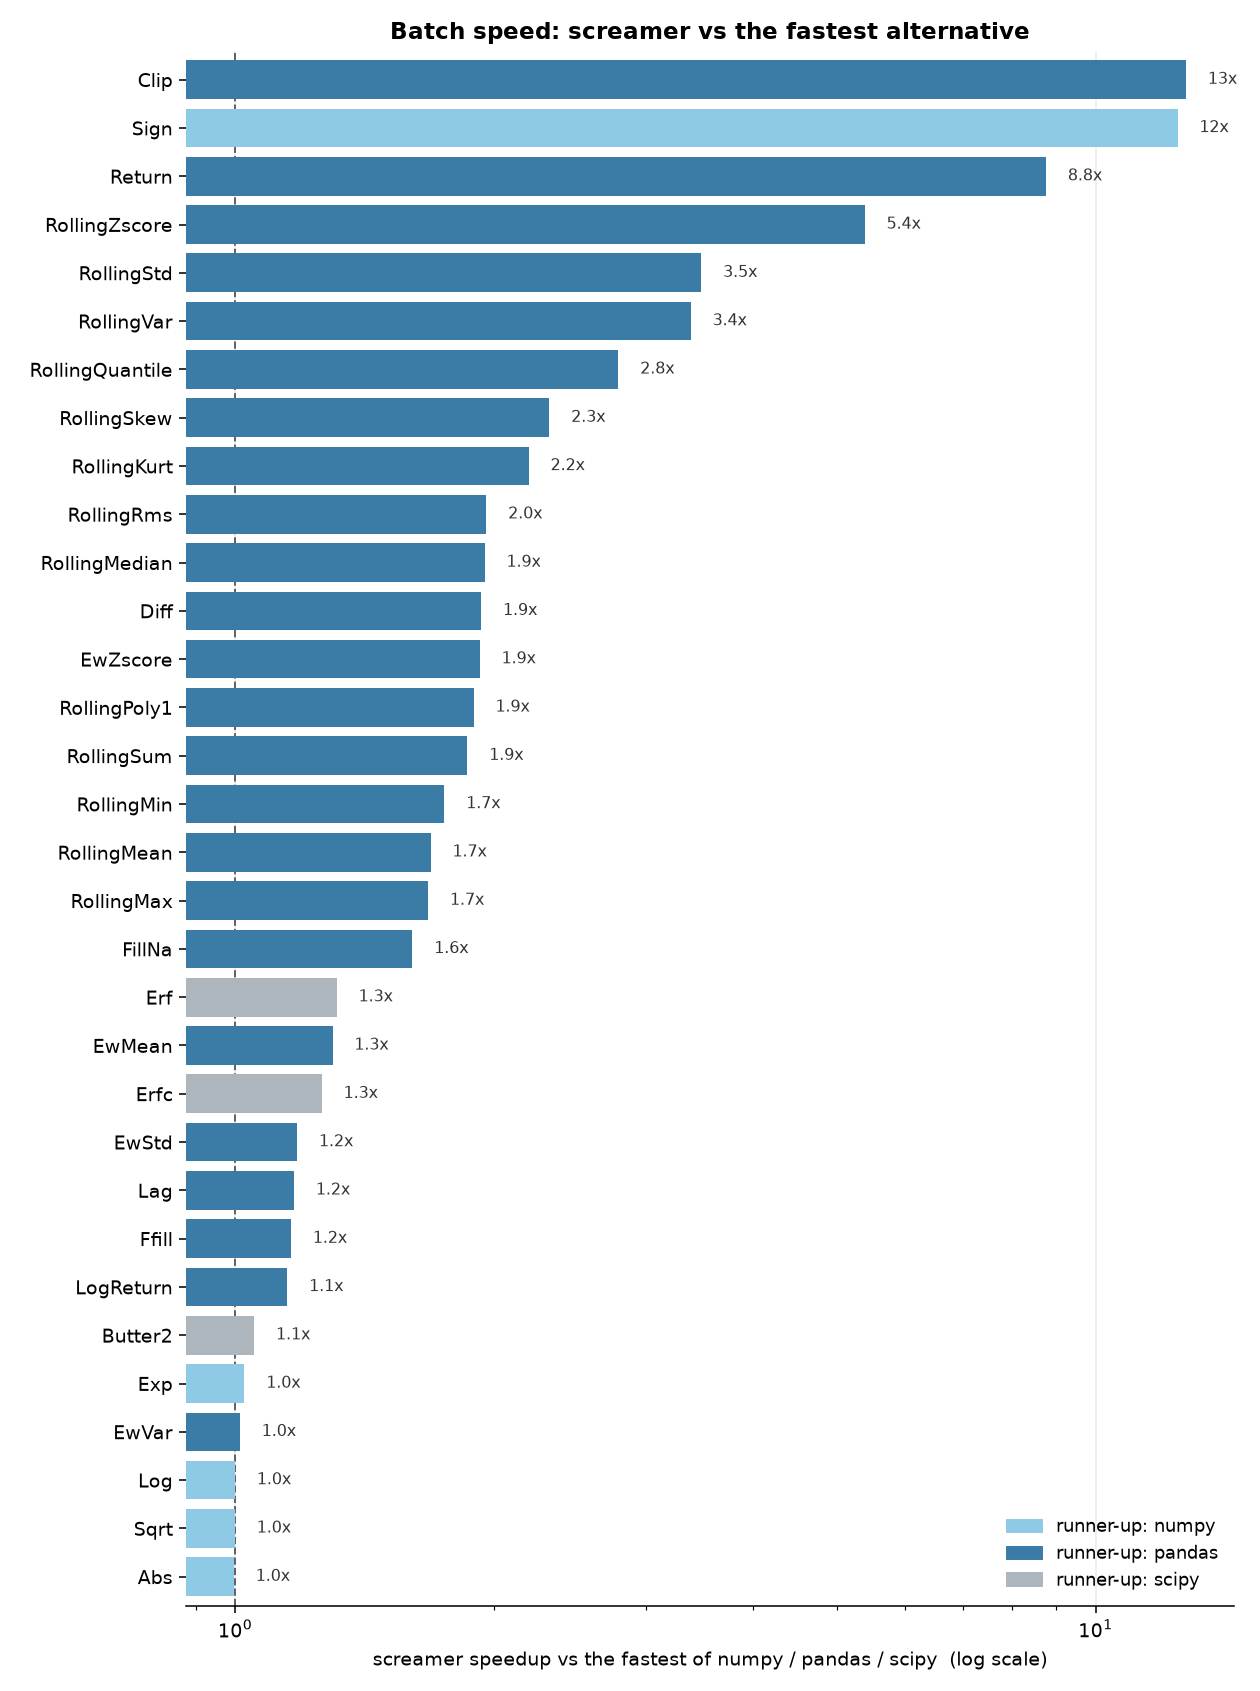
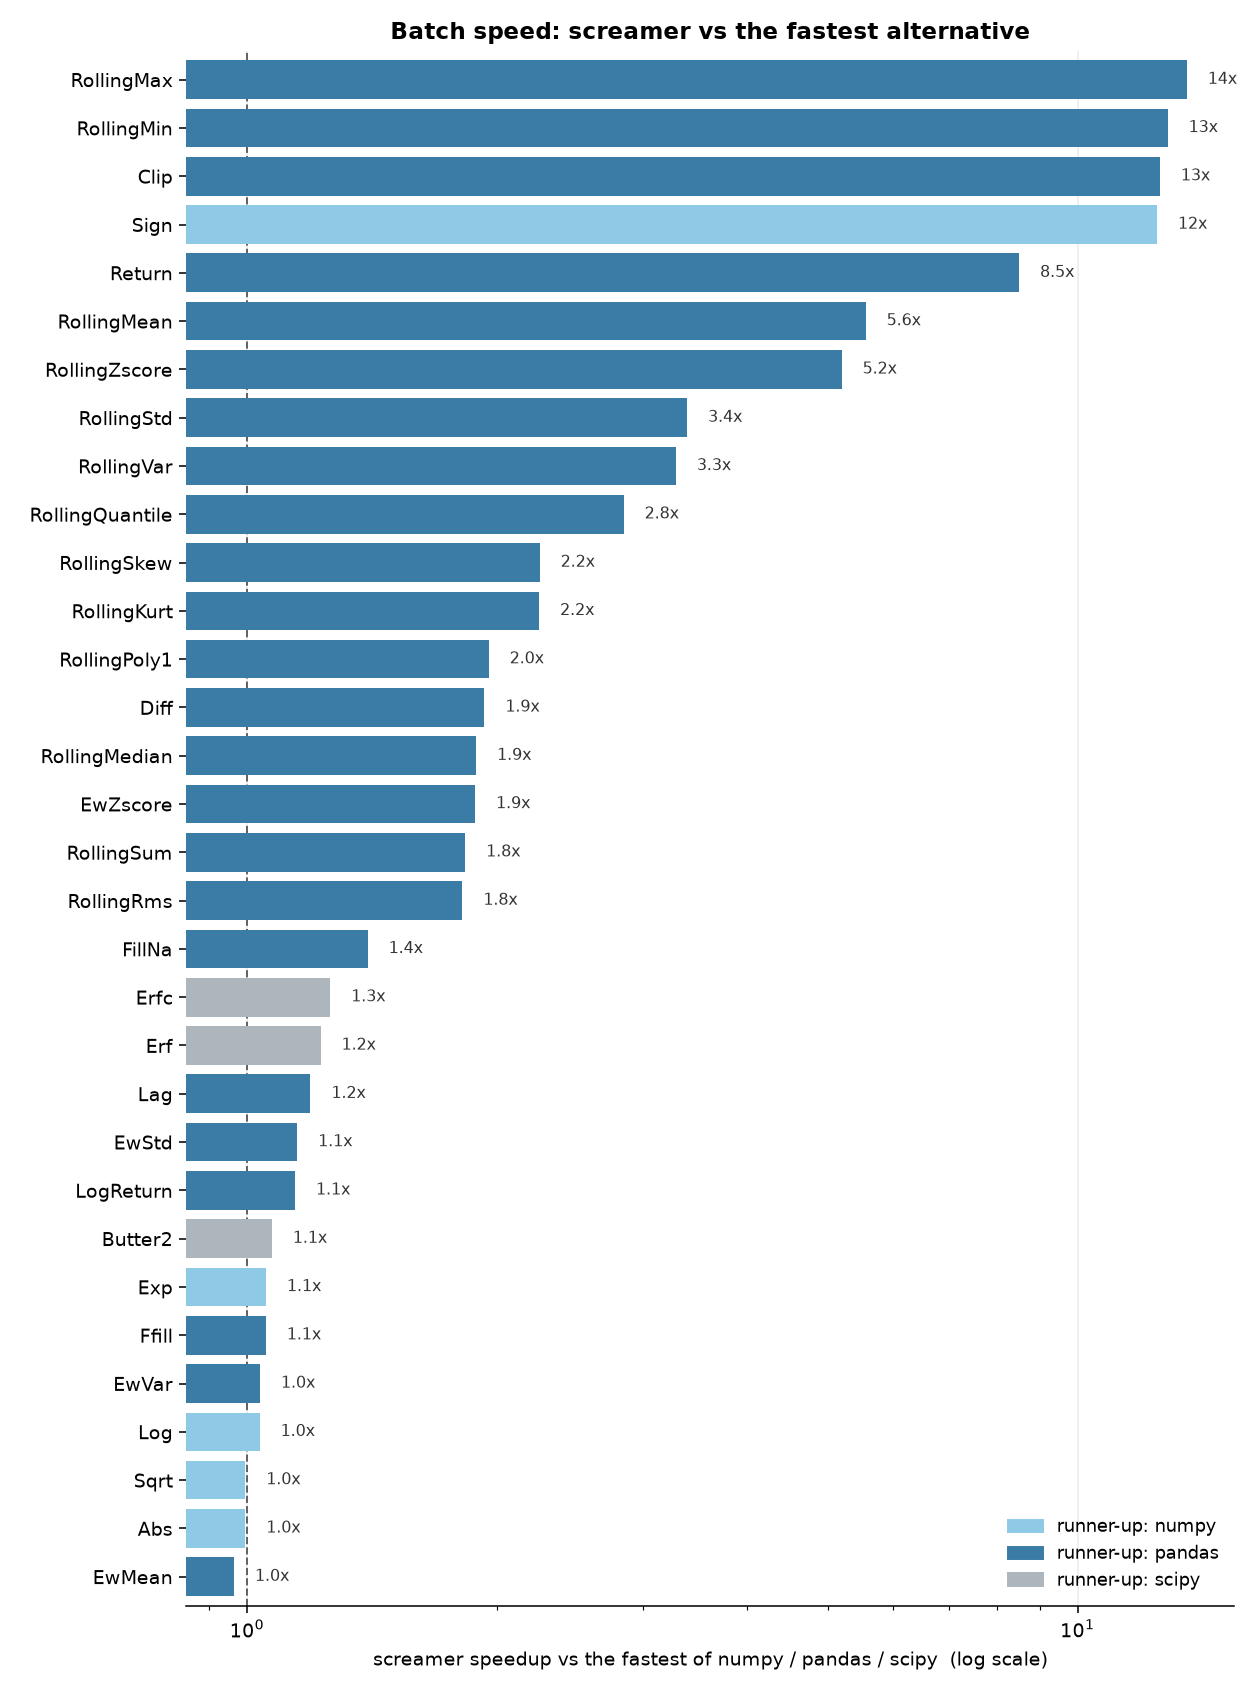
docs(performance): regenerate both benchmarks on one machine
The published chart was from 2026-07-13, before the extremum family got
5-7x faster and before RollingMean's aliasing fix, so the page understated
the library. Both suites re-run on the same machine and the same build, so
the batch and streaming halves are now consistent with each other and with
the code.

Batch, the three that moved most:

    RollingMax    0.9x -> 14x   (block decomposition)
    RollingMin    1.7x -> 13x
    RollingMean   1.7x -> 5.6x  (state hoisted out of `this`)

The page claimed every one of the 32 functions was at least as fast as the
best alternative. That is now 29 of 32: EwMean at 0.96x, Abs and Sqrt at
0.99x, which is parity within noise on a single pass over memory. The page
says so rather than rounding it away.

Streaming, cost per event for RollingMean from a compiled loop, extended
to a window of 5000 where the divergence is clearest:

    window   screamer   TA-Lib     numpy     pandas
        10      93 ns    557 ns   1530 ns   12601 ns
       100      92 ns    613 ns   1532 ns   12689 ns
      1000      92 ns   1373 ns   1675 ns   13496 ns
      5000      92 ns   4324 ns   2230 ns   15604 ns

TA-Lib goes from 557 to 4324 ns as the window grows; screamer does not
move. The "let screamer own the loop" figure is corrected from "about 1 ns,
a hundred times less" to "1 to 2 ns, some sixty times less", which is what
the run actually shows.

Three defects found while doing this, all mine:
[…]

diff --git a/devtools/baselines/_ohlc_vol.py b/devtools/baselines/_ohlc_vol.py
@@ -1,4 +1,9 @@
-"""Shared helpers for the range-based volatility references.
+"""QuantLib-backed helper for the range-based volatility references.
+
+Importing this module requires QuantLib. That is deliberate: a baseline whose
+dependency is missing must fail at import so `devtools/baselines/__init__.py`
+skips it and records why, rather than failing at call time and failing the
+suite. References that do not need QuantLib must not import from here.
 
 QuantLib implements two of the four estimators screamer ships, and it is the
 reference used for those: it is an independent implementation of the formula
@@ -12,6 +17,7 @@ all four against ground truth: each must recover the sigma of a simulated GBM
 path in the regime its page claims to handle.
 """
 import numpy as np
+import QuantLib as ql
 
 
 def quantlib_per_bar_sigma(estimator, open_, high, low, close):
@@ -20,8 +26,6 @@ def quantlib_per_bar_sigma(estimator, open_, high, low, close):
     QuantLib wants a TimeSeries<IntervalPrice> keyed by Date. The dates are
     arbitrary here: these estimators are per-bar and do not read the calendar.
     """
-    import QuantLib as ql
-
     n = len(close)
     start = ql.Date(1, 1, 2020)
     dates = ql.DateVector([start + i for i in range(n)])
@@ -31,9 +35,3 @@ def quantlib_per_bar_sigma(estimator, open_, high, low, close):
     ])
     series = estimator.calculate(ql.IntervalPriceTimeSeries(dates, prices))
     return np.array([series[d] for d in series.dates()], dtype=float)
-
-
-def rolling_mean(values, window):
-    """Trailing mean with NaN before the window fills, matching `strict`."""
-    import pandas as pd
-    return pd.Series(values).rolling(window).mean().to_numpy()

diff --git a/devtools/baselines/RollingParkinsonVar.py b/devtools/baselines/RollingParkinsonVar.py
@@ -5,8 +5,10 @@ The per-bar kernel comes from QuantLib's ParkinsonSigma, so the formula and its
 than against a transcription of the same expression.
 """
 import numpy as np
+import QuantLib as ql
 
-from ._ohlc_vol import quantlib_per_bar_sigma, rolling_mean
+from ._ohlc_vol import quantlib_per_bar_sigma
+from ._windowing import rolling_mean
 
 
 class RollingParkinsonVar_quantlib:
@@ -15,7 +17,6 @@ class RollingParkinsonVar_quantlib:
         self.window_size = window_size
 
     def _per_bar_variance(self, high, low):
-        import QuantLib as ql
         # ParkinsonSigma reads only high and low; open and close are ignored.
         sigma = quantlib_per_bar_sigma(ql.ParkinsonSigma(1.0), high, high, low, low)
         return sigma ** 2

diff --git a/devtools/baselines/RollingGarmanKlassVar.py b/devtools/baselines/RollingGarmanKlassVar.py
@@ -11,8 +11,10 @@ and Sigma4 is a higher-order approximation of the same estimand that differs in
 the fourth significant figure. Sigma5 is the match.
 """
 import numpy as np
+import QuantLib as ql
 
-from ._ohlc_vol import quantlib_per_bar_sigma, rolling_mean
+from ._ohlc_vol import quantlib_per_bar_sigma
+from ._windowing import rolling_mean
 
 
 class RollingGarmanKlassVar_quantlib:
@@ -21,7 +23,6 @@ class RollingGarmanKlassVar_quantlib:
         self.window_size = window_size
 
     def _per_bar_variance(self, o, h, l, c):
-        import QuantLib as ql
         return quantlib_per_bar_sigma(ql.GarmanKlassSigma5(1.0), o, h, l, c) ** 2
 
     def __call__(self, open_, high, low, close):

diff --git a/devtools/baselines/EwGarmanKlassVar.py b/devtools/baselines/EwGarmanKlassVar.py
@@ -5,6 +5,7 @@ and the one screamer implements. See RollingGarmanKlassVar for why Sigma4 and
 the gap-aware Sigma1/3/6 are not the right comparison.
 """
 import numpy as np
+import QuantLib as ql
 import pandas as pd
 
 from ._ohlc_vol import quantlib_per_bar_sigma
@@ -16,7 +17,6 @@ class EwGarmanKlassVar_quantlib:
         self.kw = dict(com=com, span=span, halflife=halflife, alpha=alpha)
 
     def _per_bar_variance(self, o, h, l, c):
-        import QuantLib as ql
         return quantlib_per_bar_sigma(
             ql.GarmanKlassSigma5(1.0),
             np.asarray(o, dtype=float), np.asarray(h, dtype=float),

diff --git a/devtools/baselines/EwParkinsonVar.py b/devtools/baselines/EwParkinsonVar.py
@@ -7,6 +7,7 @@ one. `pandas.ewm(...).mean()` with its default `adjust=True` is the convention
 the EwMean baseline already uses.
 """
 import numpy as np
+import QuantLib as ql
 import pandas as pd
 
 from ._ohlc_vol import quantlib_per_bar_sigma
@@ -18,7 +19,6 @@ class EwParkinsonVar_quantlib:
         self.kw = dict(com=com, span=span, halflife=halflife, alpha=alpha)
 
     def _per_bar_variance(self, high, low):
-        import QuantLib as ql
         # ParkinsonSigma reads only the high and low fields.
         h = np.asarray(high, dtype=float)
         l = np.asarray(low, dtype=float)

diff --git a/benchmarks/run_benchmarks.py b/benchmarks/run_benchmarks.py
@@ -91,7 +91,10 @@ def main():
         script_dir = os.path.dirname(os.path.abspath(__file__))
 
         # Define the path to save the plot in the same directory as the script
-        save_path = os.path.join(script_dir, 'experiments', f"bm__{row['callable']}.csv")
+        # The directory is gitignored, so it is absent in a fresh clone.
+        out_dir = os.path.join(script_dir, 'experiments')
+        os.makedirs(out_dir, exist_ok=True)
+        save_path = os.path.join(out_dir, f"bm__{row['callable']}.csv")
 
         # Save to disk
         results.to_csv(save_path, index=False)

diff --git a/devtools/baselines/_windowing.py b/devtools/baselines/_windowing.py
@@ -1,0 +1,12 @@
+"""Windowing helpers with no optional dependencies.
+
+Kept apart from `_ohlc_vol`, which requires QuantLib: a reference that needs
+only pandas must not be dragged out of an environment that lacks QuantLib.
+"""
+import numpy as np
+import pandas as pd
+
+
+def rolling_mean(values, window):
+    """Trailing mean with NaN before the window fills, matching `strict`."""
+    return pd.Series(np.asarray(values, dtype=float)).rolling(window).mean().to_numpy()

diff --git a/benchmarks/streaming_impls.py b/benchmarks/streaming_impls.py
@@ -388,6 +388,10 @@ if _cy is not None:
             return _cy.window_recompute_loop(
                 values, lambda b: talib.SMA(b, window_size), window_size)
 
+    def RollingMean__compiled_pandas(values, window_size):
+        return _cy.window_recompute_loop(
+            values, lambda b: pd.Series(b).mean(), window_size)
+
     def RollingMax__compiled_screamer(values, window_size):
         return _cy.screamer_loop(values, sc.RollingMax(window_size))
 

diff --git a/devtools/baselines/RollingRogersSatchellVar.py b/devtools/baselines/RollingRogersSatchellVar.py
@@ -9,7 +9,7 @@ this estimator exists for.
 """
 import numpy as np
 
-from ._ohlc_vol import rolling_mean
+from ._windowing import rolling_mean
 
 
 class RollingRogersSatchellVar_numpy:

diff --git a/docs/performance.md b/docs/performance.md
@@ -22,45 +22,48 @@ marks which library came second.
 
 ![screamer speedup versus the fastest alternative](img/speed_chart.png)
 
-Every one of the 32 functions is at least as fast as the fastest of numpy,
-pandas, and scipy. The rolling statistics run 1.7x to 6x faster than pandas, and
-far faster than numpy, whose sliding-window cost grows with the window while
-screamer's does not. Full numbers, against numpy and pandas separately:
+screamer is faster on 29 of the 32 functions and level on the other three:
+`EwMean` at 0.96x, `Abs` and `Sqrt` at 0.99x, which is parity within measurement
+noise. Those three are a single pass over memory with nothing to improve on.
+
+The rolling statistics run 1.8x to 14x faster than pandas, and far faster than
+numpy, whose sliding-window cost grows with the window while screamer's does
+not. Full numbers, against numpy and pandas separately:
 
 | function | vs numpy | vs pandas | vs fastest |
 |---|---|---|---|
+| `RollingMax` | 7.5x | 14x | **14x** |
+| `RollingMin` | 7.0x | 13x | **13x** |
 | `Clip` | 1.8x | 13x | **13x** |
 | `Sign` | 12x | - | **12x** |
-| `Return` | 2.0x | 8.8x | **8.8x** |
-| `RollingZscore` | 8.0x | 5.4x | **5.4x** |
-| `RollingStd` | 6.2x | 3.5x | **3.5x** |
-| `RollingVar` | 6.2x | 3.4x | **3.4x** |
-| `RollingQuantile` | 1.8x | 2.8x | **2.8x** |
-| `RollingSkew` | 30x | 2.3x | **2.3x** |
-| `RollingKurt` | 22x | 2.2x | **2.2x** |
-| `RollingRms` | 3.2x | 2.0x | **2.0x** |
-| `RollingMedian` | 1.3x | 1.9x | **1.9x** |
+| `Return` | 1.9x | 8.5x | **8.5x** |
+| `RollingMean` | 6.1x | 5.6x | **5.6x** |
+| `RollingZscore` | 7.9x | 5.2x | **5.2x** |
+| `RollingStd` | 6.1x | 3.4x | **3.4x** |
+| `RollingVar` | 6.1x | 3.3x | **3.3x** |
+| `RollingQuantile` | 1.7x | 2.8x | **2.8x** |
+| `RollingSkew` | 29x | 2.2x | **2.2x** |
+| `RollingKurt` | 24x | 2.2x | **2.2x** |
+| `RollingPoly1` | 2.0x | 2.0x | **2.0x** |
 | `Diff` | 1.0x | 1.9x | **1.9x** |
+| `RollingMedian` | 1.2x | 1.9x | **1.9x** |
 | `EwZscore` | - | 1.9x | **1.9x** |
-| `RollingPoly1` | 1.9x | 1.9x | **1.9x** |
-| `RollingSum` | 1.7x | 1.9x | **1.9x** |
-| `RollingMin` | 1.0x | 1.7x | **1.7x** |
-| `RollingMean` | 1.7x | 1.7x | **1.7x** |
-| `RollingMax` | 0.9x | 1.7x | **1.7x** |
-| `FillNa` | 2.5x | 1.6x | **1.6x** |
-| `Erf` | - | - | **1.3x** |
-| `EwMean` | 1.0x | 1.3x | **1.3x** |
+| `RollingSum` | 1.7x | 1.8x | **1.8x** |
+| `RollingRms` | 2.9x | 1.8x | **1.8x** |
+| `FillNa` | 2.6x | 1.4x | **1.4x** |
 | `Erfc` | - | - | **1.3x** |
-| `EwStd` | - | 1.2x | **1.2x** |
+| `Erf` | - | - | **1.2x** |
 | `Lag` | 1.0x | 1.2x | **1.2x** |
-| `Ffill` | 5.1x | 1.2x | **1.2x** |
+| `EwStd` | - | 1.1x | **1.1x** |
 | `LogReturn` | 1.0x | 1.1x | **1.1x** |
 | `Butter2` | - | - | **1.1x** |
-| `Exp` | 1.0x | - | **1.0x** |
+| `Exp` | 1.1x | - | **1.1x** |
+| `Ffill` | 5.0x | 1.1x | **1.1x** |
 | `EwVar` | - | 1.0x | **1.0x** |
 | `Log` | 1.0x | - | **1.0x** |
 | `Sqrt` | 1.0x | - | **1.0x** |
 | `Abs` | 1.0x | - | **1.0x** |
+| `EwMean` | 0.7x | 1.0x | **1.0x** |
 
 ## Streaming
 
@@ -76,14 +79,15 @@ Cost per event, on a stream of 200,000 samples of `RollingMean`:
 
 | window | screamer | TA-Lib | numpy | pandas |
 |---|---|---|---|---|
-| 10 | **90 ns** | 547 ns | 1482 ns | 11491 ns |
-| 100 | **92 ns** | 619 ns | 1521 ns | 11709 ns |
-| 1000 | **93 ns** | 1324 ns | 1687 ns | 12954 ns |
+| 10 | **93 ns** | 557 ns | 1530 ns | 12601 ns |
+| 100 | **92 ns** | 613 ns | 1532 ns | 12689 ns |
+| 1000 | **92 ns** | 1373 ns | 1675 ns | 13496 ns |
+| 5000 | **92 ns** | 4324 ns | 2230 ns | 15604 ns |
 
-screamer is 6x to 14x faster than TA-Lib here, 16x to 18x faster than numpy, and
-about 130x faster than pandas. It is also the only one whose cost does not grow
-with the window: at a window of 5000, TA-Lib reaches 4491 ns per event while
-screamer is unchanged.
+screamer is 6x to 47x faster than TA-Lib here, 16x to 24x faster than numpy, and
+135x to 170x faster than pandas. It is also the only one whose cost does not grow
+with the window: going from a window of 10 to 5000, TA-Lib goes from 557 to 4324
+ns per event and screamer does not move.
 
 The loop in that table is compiled, so the interpreter is not part of the
 measurement. Compiling the event loop is worth having, and it helps every
@@ -93,22 +97,22 @@ is whether they can update a result rather than recompute one.
 
 ### Let screamer own the loop
 
-Nearly all of those 90 nanoseconds are the call into the extension rather than
+Nearly all of those 92 nanoseconds are the call into the extension rather than
 the operator. Every library pays that on every event, and for all of them it is
 the dominant cost.
 
 The way past it is to stop calling per event and let the loop run inside
 screamer, which is what the array call and [`Pipeline`](pipelines.md) do. The
-same recurrence, over the same stream, then costs **about 1 ns per event**,
-roughly a hundred times less:
+same recurrence, over the same stream, then costs **1 to 2 ns per event**, some
+sixty times less:
 
 ```python
-# 90 ns per event: the loop is yours, and every event crosses into the extension
+# 92 ns per event: the loop is yours, and every event crosses into the extension
 op = screamer.RollingMean(100)
 for value in feed:
     current = op(value)
 
-# ~1 ns per event: the loop is screamer's, and events stay in C++
+# 1 to 2 ns per event: the loop is screamer's, and events stay in C++
 current = screamer.RollingMean(100)(values)
 ```
 
